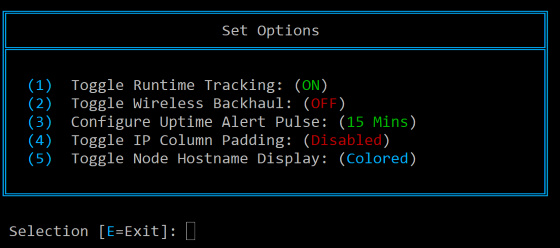
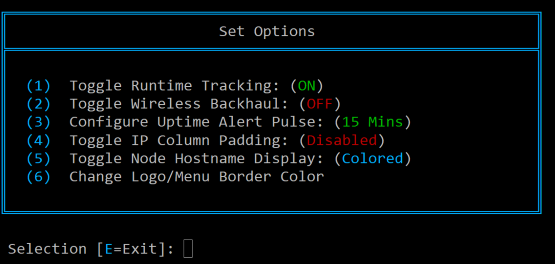
Wireless Report

Changed region(s): [[0.1225, 0.2823, 0.7658, 0.7056], [0.0, 0.0282, 0.9802, 0.8185], [0.0, 0.9032, 0.3676, 0.9879]]

diff --git a/README.md b/README.md
@@ -82,7 +82,8 @@ $\color{green}{\text{Option (7):}}$ Set Options
    * $\color{green}{\text{Last 2 Octets:}}$ 192.168.050.003 (Pads Last 2 Octets for Multi-Subnet Alignment)
  * $\color{blue}{\text{Toggle Node Hostname Display:}}$ Gives you full control over how mesh node identifiers look, allowing for an incredibly clean, unified text layout or distinct color-coded node tracking.<br>
    * $\color{green}{\text{Numbered Hostnames (Default):}}$ Hostnames remain a uniform, clean white while their tracking superscripts (sup) are color-coded to match their respective nodes.
-   * $\color{green}{\text{Colored Hostnames:}}$ The entire hostname text dynamically takes on the color of its connected node. The tracking superscripts are seamlessly hidden using invisible styling, preserving your right-click table sorting perfectly without breaking the visual layout.
+   * $\color{green}{\text{Colored Hostnames:}}$ The entire hostname text dynamically takes on the color of its connected node. The tracking superscripts are seamlessly hidden using invisible styling, preserving your right-click table sorting perfectly without breaking the visual layout.<br>
+ * $\color{blue}{\text{Change Install Menu colors:}}$ Change Logo/Menu Border Color.
 
 ![Instructions4](https://raw.githubusercontent.com/JB1366/Wireless_Report/main/images/Instructions4.png)<br>
 \
